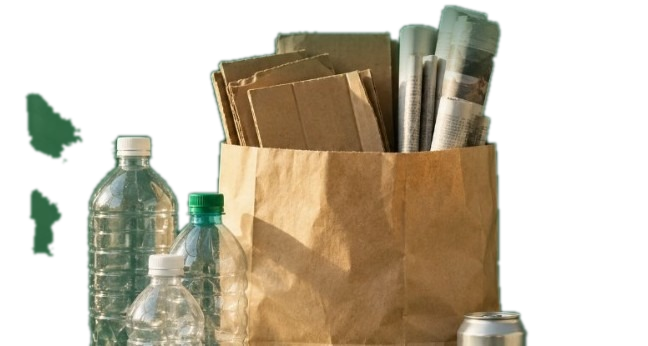
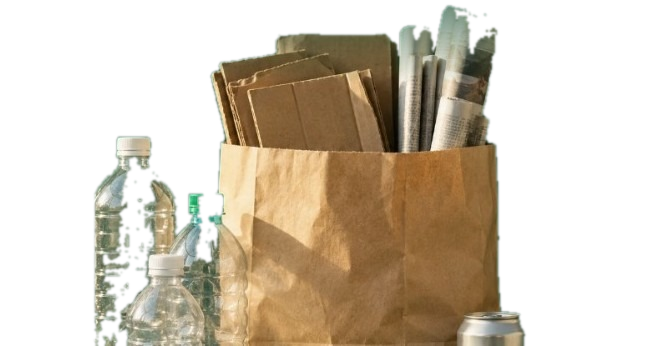
Equalize spacing between K2, text, and recyclables image, and make image bigger

diff --git a/client/src/screens/auth/AuthScreen.tsx b/client/src/screens/auth/AuthScreen.tsx
@@ -117,68 +117,65 @@ export const AuthScreen: React.FC<AuthScreenProps> = ({ onLoginSuccess }) => {
     <div className="min-h-screen w-full bg-[#124b38] flex flex-col lg:flex-row">
       
       {/* ================= LEFT EDITORIAL HERO PANEL ================= */}
-      <div className="lg:w-[45%] xl:w-[42%] bg-[#124b38] text-white flex flex-col justify-between relative overflow-hidden p-8 sm:p-10 lg:p-12 xl:p-14 min-h-full">
+      <div className="lg:w-[45%] xl:w-[42%] bg-[#124b38] text-white flex flex-col justify-between relative overflow-hidden p-8 sm:p-10 lg:p-12 xl:p-14 min-h-screen">
         
-        {/* Top Section: K² Brand & Aligned Text */}
-        <div className="space-y-5 sm:space-y-6">
-          {/* K² / Ksquare Brand Header at the Top */}
-          <div className="flex items-center space-x-4">
-            <div className="w-16 h-16 sm:w-20 sm:h-20 rounded-2xl overflow-hidden bg-white p-1.5 shrink-0 shadow-xl border border-white/20">
-              <img 
-                src="/logo.jpg" 
-                alt="Ksquare K² Logo" 
-                className="w-full h-full object-contain rounded-xl"
-              />
-            </div>
-            <div className="space-y-1">
-              <div className="flex items-center space-x-2">
-                <span className="text-2xl sm:text-3xl font-black text-white tracking-tight">Ksquare</span>
-                <span className="px-2 py-0.5 rounded-lg bg-emerald-500 text-white font-extrabold text-xs tracking-wider shadow-sm">K²</span>
-              </div>
-              <p className="text-xs font-semibold text-[#9fe3be] uppercase tracking-wider">
-                Turning Waste into Tomorrow
-              </p>
-              <div className="flex items-center space-x-1.5 text-white/80 text-[10px] font-bold tracking-widest uppercase pt-0.5">
-                <Compass className="w-3 h-3 text-emerald-300" />
-                <span>NOTHING GOOD GOES TO WASTE</span>
-              </div>
-            </div>
+        {/* Element 1: K² / Ksquare Brand Header */}
+        <div className="flex items-center space-x-4">
+          <div className="w-16 h-16 sm:w-20 sm:h-20 rounded-2xl overflow-hidden bg-white p-1.5 shrink-0 shadow-xl border border-white/20">
+            <img 
+              src="/logo.jpg" 
+              alt="Ksquare K² Logo" 
+              className="w-full h-full object-contain rounded-xl"
+            />
           </div>
-
-          {/* Text Content Aligned Below K² */}
-          <div className="space-y-4">
-            {/* Headline with Editorial Serif Accent */}
-            <div className="space-y-1">
-              <h1 className="text-4xl sm:text-5xl lg:text-6xl font-normal tracking-tight text-white leading-[1.08]">
-                New beginnings.
-              </h1>
-              <h1 className="text-4xl sm:text-5xl lg:text-6xl font-normal tracking-tight text-white leading-[1.08]">
-                For you.
-              </h1>
-              <h1 className="text-4xl sm:text-5xl lg:text-6xl font-normal tracking-tight text-[#9fe3be] leading-[1.08] font-['Instrument_Serif',serif] italic pt-1">
-                For your scrap.
-              </h1>
+          <div className="space-y-1">
+            <div className="flex items-center space-x-2">
+              <span className="text-2xl sm:text-3xl font-black text-white tracking-tight">Ksquare</span>
+              <span className="px-2 py-0.5 rounded-lg bg-emerald-500 text-white font-extrabold text-xs tracking-wider shadow-sm">K²</span>
             </div>
-
-            {/* Subtitle */}
-            <p className="text-white/80 text-sm sm:text-base font-normal leading-relaxed max-w-md">
-              A cleaner home. A stronger local community.<br />
-              A second life for the things you leave behind.
+            <p className="text-xs font-semibold text-[#9fe3be] uppercase tracking-wider">
+              Turning Waste into Tomorrow
             </p>
-
-            {/* Tagline */}
-            <p className="text-xs text-emerald-200/70 tracking-wider uppercase font-medium pt-0.5">
-              Waste • People • Possibilities • Connected
-            </p>
+            <div className="flex items-center space-x-1.5 text-white/80 text-[10px] font-bold tracking-widest uppercase pt-0.5">
+              <Compass className="w-3 h-3 text-emerald-300" />
+              <span>NOTHING GOOD GOES TO WASTE</span>
+            </div>
           </div>
         </div>
 
-        {/* Recyclables Collection Items Cutout (No border, natural items) */}
-        <div className="pt-8 sm:pt-10 lg:pt-12 mt-auto">
+        {/* Element 2: Headline & Subtitle Text (Equal Spacing) */}
+        <div className="space-y-4 py-6 sm:py-8 my-auto">
+          {/* Headline with Editorial Serif Accent */}
+          <div className="space-y-1">
+            <h1 className="text-4xl sm:text-5xl lg:text-6xl font-normal tracking-tight text-white leading-[1.08]">
+              New beginnings.
+            </h1>
+            <h1 className="text-4xl sm:text-5xl lg:text-6xl font-normal tracking-tight text-white leading-[1.08]">
+              For you.
+            </h1>
+            <h1 className="text-4xl sm:text-5xl lg:text-6xl font-normal tracking-tight text-[#9fe3be] leading-[1.08] font-['Instrument_Serif',serif] italic pt-1">
+              For your scrap.
+            </h1>
+          </div>
+
+          {/* Subtitle */}
+          <p className="text-white/80 text-sm sm:text-base font-normal leading-relaxed max-w-md">
+            A cleaner home. A stronger local community.<br />
+            A second life for the things you leave behind.
+          </p>
+
+          {/* Tagline */}
+          <p className="text-xs text-emerald-200/70 tracking-wider uppercase font-medium pt-0.5">
+            Waste • People • Possibilities • Connected
+          </p>
+        </div>
+
+        {/* Element 3: Recyclables Collection Items (Enlarged & Clean) */}
+        <div className="w-full flex justify-center -mb-2 sm:-mb-4">
           <img 
             src="/recyclables-items.png" 
             alt="Household recyclable scrap items" 
-            className="w-full max-w-lg object-contain select-none drop-shadow-2xl"
+            className="w-full max-w-xl sm:max-w-2xl h-56 sm:h-64 lg:h-72 object-contain select-none filter drop-shadow-[0_25px_35px_rgba(0,0,0,0.45)]"
           />
         </div>
 
